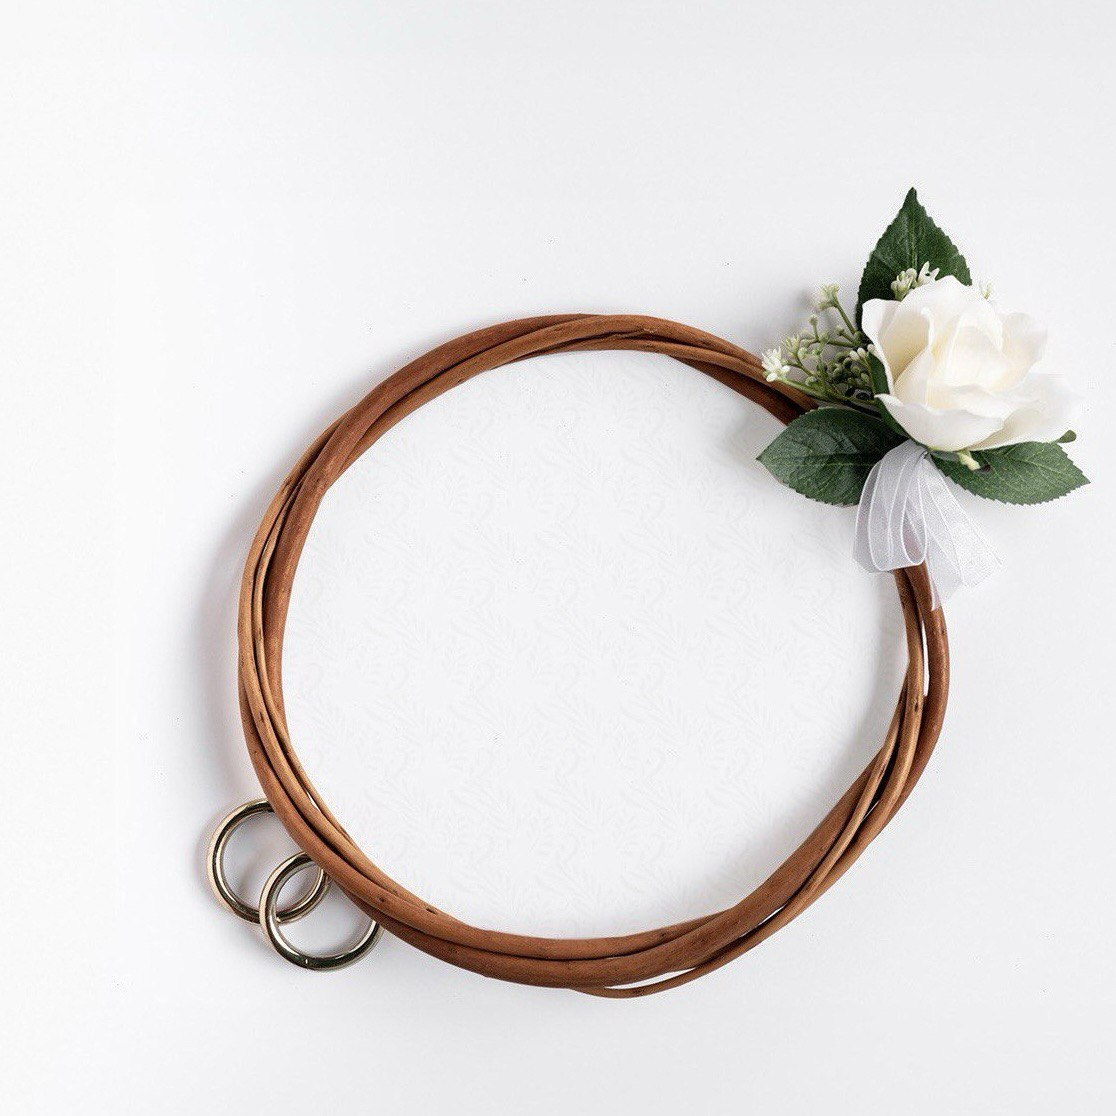
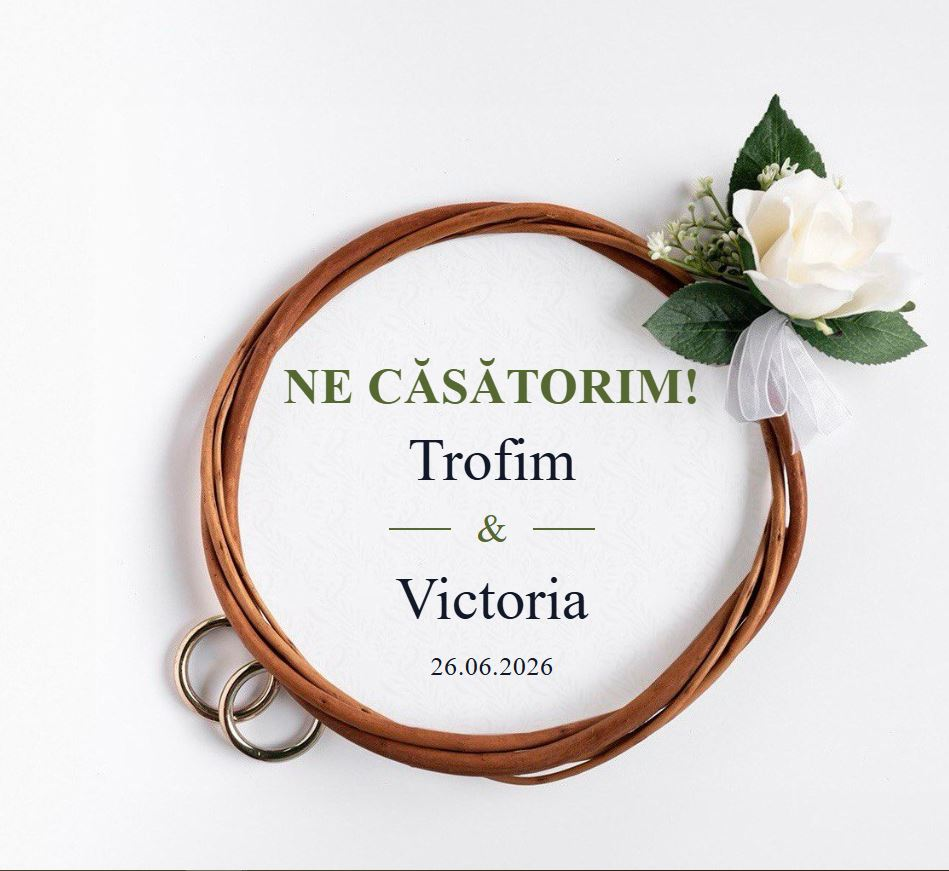
change acasa left side

diff --git a/src/componets/Acasă/LeftSide.module.css b/src/componets/Acasă/LeftSide.module.css
@@ -1,119 +1,31 @@
 .container {
   flex: 1;
-  background: url('../../assets/images/img1.jpg') center/cover no-repeat;
   display: flex;
   justify-content: center;
   align-items: center;
-  position: relative;
-}
-.contextWrapper {
-  text-align: center;
-  font-family: 'Cormorant', serif;
-  color: #272727;
-  margin-top: 190px;
-  margin-left: 30px;
-  margin-bottom: 20px;
-  z-index: 1;
-  position: relative;
+  background-color: #f0f0f0;
 }
 
-.contextWrapper > h1 {
-  font-size: 3rem;
-}
-
-.contextWrapper > h5 {
-  line-height: 20px;
-  letter-spacing: 0.5px;
-  font-size: 2.5rem;
-  color: #556832;
-  font-family: 'Cardo', serif;
-  font-weight: 600;
-  margin: 20px 0;
-}
-.andSymbol {
-  display: flex;
-  align-items: center;
-  justify-content: center;
-  margin: 10px 0;
-}
-.andSymbol > .lineLeft {
-  margin-right: 10px;
-}
-
-.lineLeft,
-.lineRight {
-  width: 50px;
-  border: none;
-  border-top: 2px solid #556832;
-}
-
-.andSymbol span {
-  font-size: 2rem;
-  color: #556832;
-  margin: 0 10px;
-}
-
-.andSymbol > .lineRight {
-  margin-left: 10px;
-}
-
-.contextWrapper > h4 {
-  font-weight: 500;
-  font-size: 1.3rem;
-  line-height: 20px;
-  margin-top: 15px;
-  margin-bottom: 4px;
-  letter-spacing: 0.5px;
-  font-family: 'Cardo', serif;
+.container > img {
+  width: 100%;
+  height: 100%;
+  object-fit: cover;
 }
 
 /* Планшет */
+@media (max-width: 1024px) {
+  .container {
+    min-height: 60vh;
+  }
+}
 
 /* Телефон */
 @media (max-width: 768px) {
   .container {
-    min-height: 80vh;
-    padding: 10px;
-
-    justify-content: center;
-    align-items: flex-end;
+    min-height: 50vh;
   }
 
-  .contextWrapper {
-    margin-bottom: 70px; /* регулируешь насколько ниже */
-    margin-top: 0px;
-    margin-left: 20px;
-    padding-top: 30px;
-  }
-
-  .contextWrapper > h1 {
-    font-size: 1.7rem;
-  }
-
-  .contextWrapper > h5 {
-    font-size: 1.4rem;
-    margin: 5px 0;
-  }
-
-  .contextWrapper > h4 {
-    font-size: 0.95rem;
-    margin-top: 5px;
-    margin-bottom: 4px;
-  }
-  .andSymbol {
-    margin: 5px 0;
-  }
-
-  .andSymbol span {
-    font-size: 1.3rem;
-  }
-
-  .lineLeft,
-  .lineRight {
-    width: 30px;
-  }
-  hr {
-    margin-top: 0rem;
-    margin-bottom: 0rem;
+  .container > img {
+    height: 100%;
   }
 }

diff --git a/src/componets/Acasă/LeftSide.jsx b/src/componets/Acasă/LeftSide.jsx
@@ -1,18 +1,11 @@
+import rightImg from '../../assets/images/img1.jpg'
+
 import styles from './LeftSide.module.css'
+
 const LeftSide = () => {
   return (
     <div className={styles.container}>
-      <div className={styles.contextWrapper}>
-        <h5>NE CĂSĂTORIM!</h5>
-        <h1>Trofim</h1>
-        <div className={styles.andSymbol}>
-          <hr className={styles.lineLeft} />
-          <span>&</span>
-          <hr className={styles.lineRight} />
-        </div>
-        <h1>Victoria</h1>
-        <h4>26.06.2026</h4>
-      </div>
+      <img src={rightImg} alt="Imagine dreapta" />
     </div>
   )
 }
